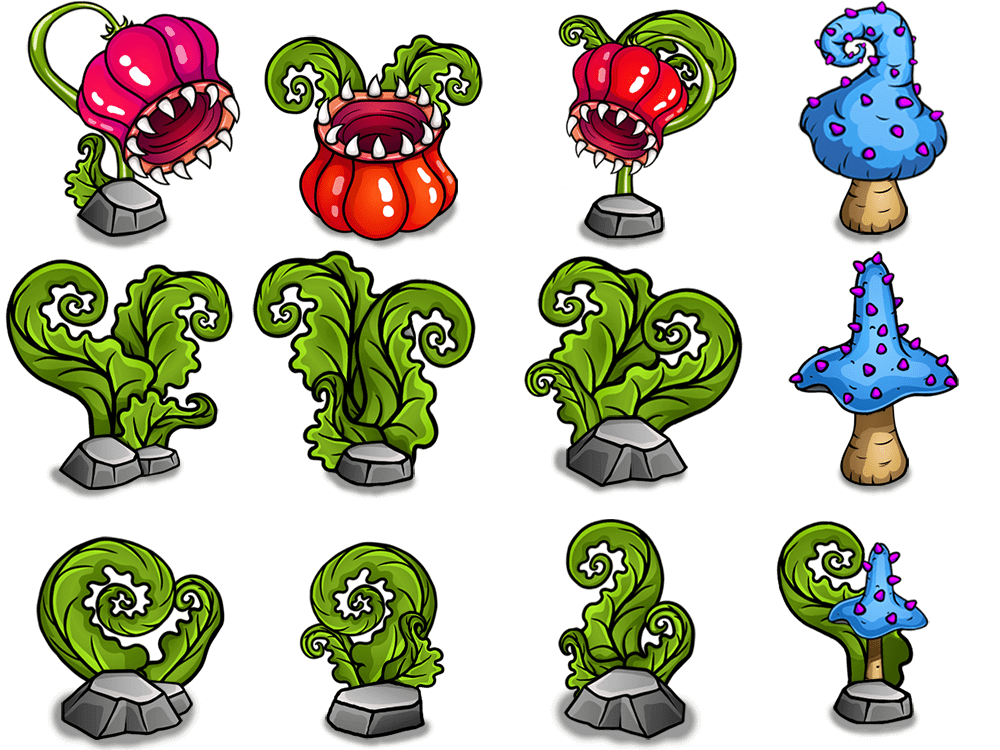
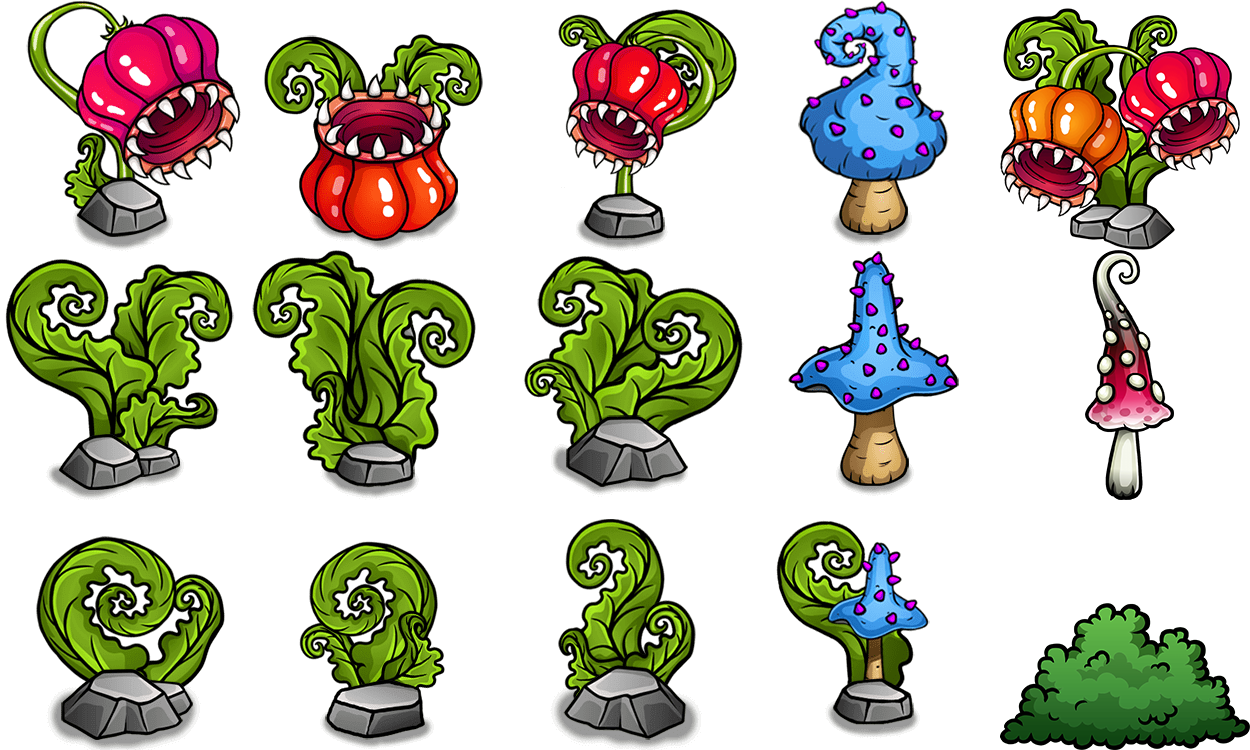
add new skins of obstacles in sprite

diff --git a/src/Obstacles.js b/src/Obstacles.js
@@ -11,7 +11,7 @@ export class Obstacles {
         this.height = this.spriteHeight;
         this.spriteX = this.collisionX - this.width * 0.5;
         this.spriteY = this.collisionY - this.height * 0.5 - 70;
-        this.frameX = Math.floor(Math.random() * 4);
+        this.frameX = Math.floor(Math.random() * 5);
         this.frameY = Math.floor(Math.random() * 3);
     }
 
